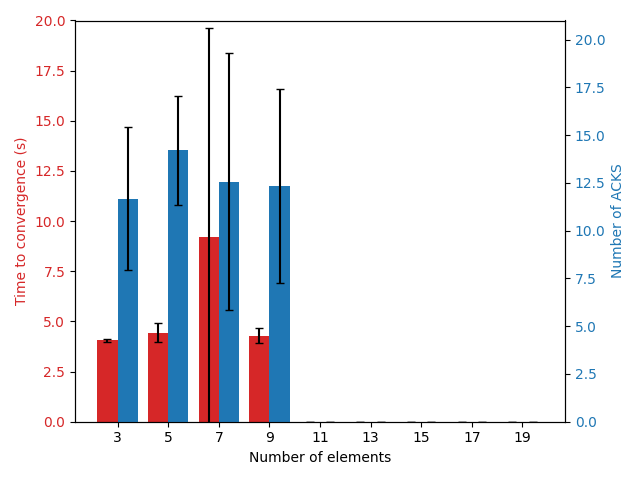
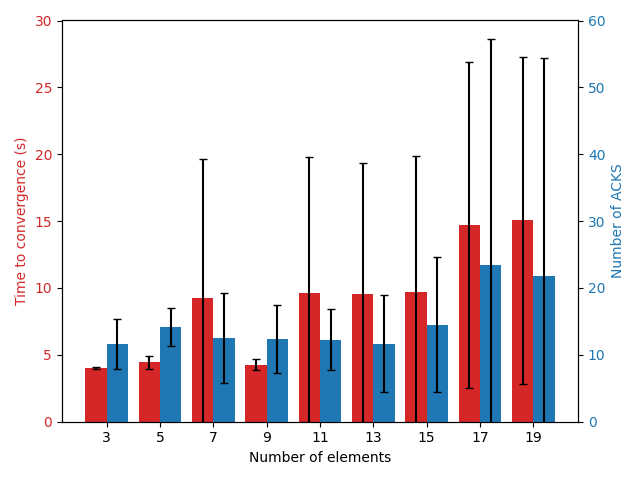
Plot elements done

diff --git a/plot_element.py b/plot_element.py
@@ -6,7 +6,7 @@ convergence_times = np.zeros((9, 5))
 convergence_std = np.zeros(9)
 convergence_averages = np.zeros(9)
 total = 0
-for index, x in enumerate(x for x in range(3, 10, 2)):
+for index, x in enumerate(x for x in range(3, 20, 2)):
     for i in range(1, 6):
         with open(f'element_scale_logs/seed{i}-{x}element.out') as f:
             data = f.readlines()
@@ -26,7 +26,7 @@ acks_std = np.zeros(9)
 
 
 # COUNT NUMBER OF ACKS
-for index, x in enumerate(y for y in range(3, 10, 2)):
+for index, x in enumerate(y for y in range(3, 20, 2)):
     for i in range(1, 6):
         with open(f'element_scale_logs/seed{i}-{x}element.out') as f:
             data = f.readlines()
@@ -63,7 +63,7 @@ ax1.bar(x_axis, convergence_averages, .4, label="Time to Convergence", color=col
 # ax1.errorbar(elements, convergence_averages, yerr=convergence_std, fmt='o', color=color)
 ax1.tick_params(axis='y', labelcolor=color)
 # set y limits of the ax1's y-axis
-ax1.set_ylim(0, 20)
+ax1.set_ylim(0, 30)
 ax2 = ax1.twinx()  # instantiate a second axes that shares the same x-axis
 
 color = 'tab:blue'
@@ -72,7 +72,8 @@ ax2.set_ylabel('Number of ACKS', color=color)  # we already handled the x-label 
 # ax2.plot(elements, number_of_acks, color=color)
 ax2.bar(x_axis + .4, number_of_acks, .4, color=color, label="Number of Acks", yerr=acks_std, capsize=3)
 ax2.tick_params(axis='y', labelcolor=color)
+# set the difference between the two
 # set y limits of the ax2's y-axis
-ax2.set_ylim(0, 21)
+ax2.set_ylim(0, 60)
 fig.tight_layout() 
 plt.savefig('element_scaling.png')
